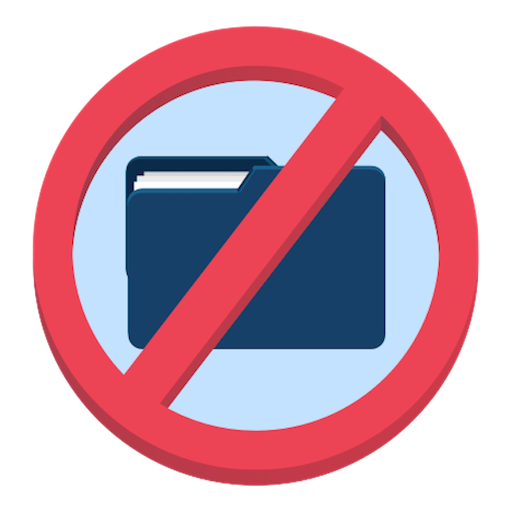
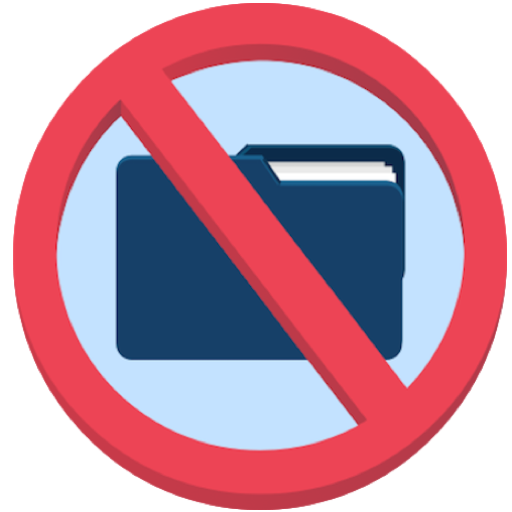
home page update

diff --git a/webpages/src/home.jsx b/webpages/src/home.jsx
@@ -1,22 +1,26 @@
-import lock_img from "./imgs/lock.png";
+import lock_img from "./imgs/no-log.png";
 import chat_img from "./imgs/chat.png";
+import "./Home.css";
 
 function Home() {
     
     return (
       <div className="Home">
-    <h1>Home</h1>
-    <p>Decent chat is a chatting platform, made with the intent of keeping the people of crypto Safe and sound,
-       While comunicating both in terms of there assets but also there data.
-    </p>
-
-
+        <div className="home-text">
+    <h1>SuperChat</h1>
+    <p>This is a chatting platform, Where you you will have to mint a Chat Pass to be able to chat</p>
+    </div>
+    
+    <div className="features">
     <img src={lock_img} className="lock-img" alt="Lock-Icon"/>
-    <p>no trancactions</p>
 
-        <img src={chat_img} className="chat-img" alt="Chat-Icon"/> 
-        <p>Chat with your friends or something</p>
-        </div>
+    <img src={chat_img} className="chat-img" alt="Chat-Icon"/> 
+    </div>
+
+        <p className="lock-text">NO TRANCACTIONS</p>
+        <p className="chat-text">CHAT WITH YOUR FRIENDS OR SOMETHING</p>
+    
+    </div>
 
       
     );

diff --git a/webpages/src/Home.css b/webpages/src/Home.css
@@ -1,0 +1,52 @@
+body{
+    text-align: center;
+    color: antiquewhite;
+}
+
+.home-text{
+    padding-bottom: 13%;
+}
+
+.features {
+    background: white;
+    color: gray;
+    padding: 20px;
+    margin-bottom: 50px;
+    padding-bottom: 60px;
+    display: flex;
+  }
+
+.chat-img{
+    float: left;
+    width: 200px;
+    right: 200px;
+    margin:auto;
+}
+
+.lock-img{
+    width: 200px;
+    float: right;
+    margin:auto;
+}
+
+.lock-text{
+    margin: auto;
+    position: absolute;
+    bottom: 45px;
+    left: 260px;
+    display: flex;
+    color: gray;
+    font-size: 20px;
+    padding-left: 20px;
+}
+
+.chat-text{
+    margin: auto;
+    position: absolute;
+    bottom: 45px;
+    left: 850px;
+    display: flex;
+    color: gray;
+    font-size: 20px;
+    padding-left: 20px;
+}

diff --git a/webpages/src/index.js b/webpages/src/index.js
@@ -18,7 +18,7 @@ root.render(
     <Route index element={<Home />} />
     <Route path="Mint" element={<App />} />
     <Route path="Chat" element={<Chat />} />
-    <Route path="*" element={<App />} />
+    <Route path="*" element={<Home />} />
     </Route>
   </Routes>
 </BrowserRouter> 
